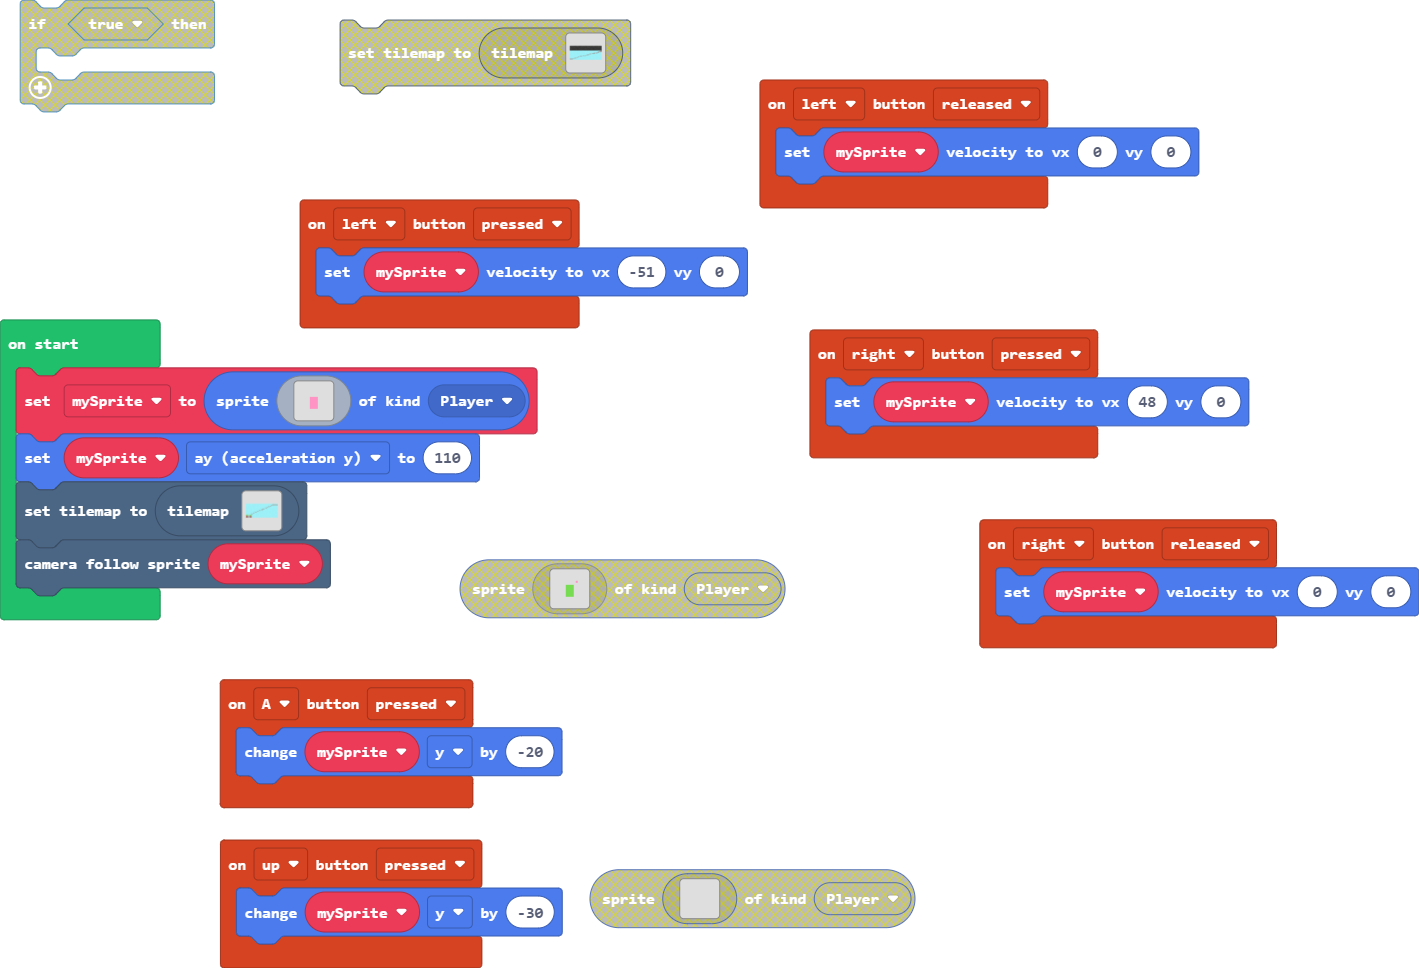
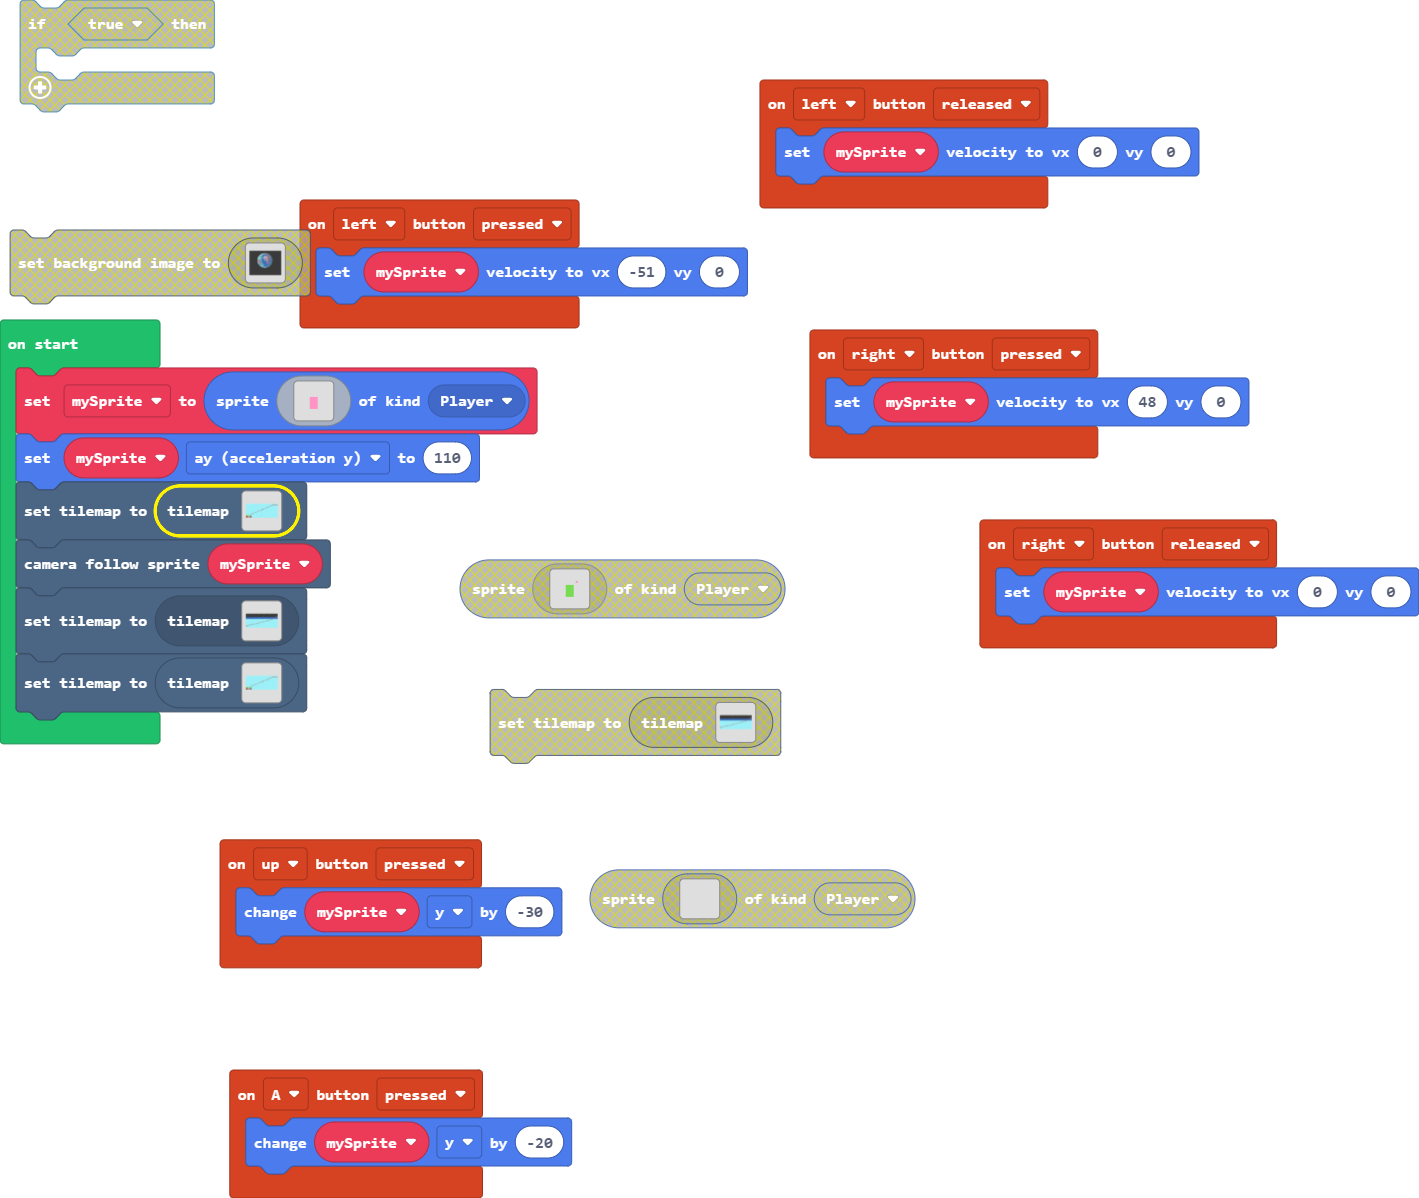
Update main.blocks, main.ts, tilemap.g.jres, tilemap.g.ts

diff --git a/tilemap.g.ts b/tilemap.g.ts
@@ -24,6 +24,14 @@ namespace myTiles {
     export const tile9 = image.ofBuffer(hex``);
     //% fixedInstance jres blockIdentity=images._tile
     export const tile11 = image.ofBuffer(hex``);
+    //% fixedInstance jres blockIdentity=images._tile
+    export const tile13 = image.ofBuffer(hex``);
+    //% fixedInstance jres blockIdentity=images._tile
+    export const tile14 = image.ofBuffer(hex``);
+    //% fixedInstance jres blockIdentity=images._tile
+    export const tile12 = image.ofBuffer(hex``);
+    //% fixedInstance jres blockIdentity=images._tile
+    export const tile15 = image.ofBuffer(hex``);
 
     helpers._registerFactory("tilemap", function(name: string) {
         switch(helpers.stringTrim(name)) {
@@ -155,8 +163,46 @@ namespace myTiles {
 . . . . . . . . . . . . . . . . 
 . . . . . . . . . . . . . . . . 
 `, [myTiles.transparency16], TileScale.Sixteen);
+            case "level8":
+            case "level8":return tiles.createTilemap(hex`1000100000000000000000000000000000000000000000000000000000000000000000000000000000000000000000000000000000000000000000000000000000000000000000000000000000000000000000000000000000000000000000000000000000000000000000000000000000000000000000000000000000000000000000000000000000000000000000000000000000000000000000000000000000000000000000000000000000000000000000000000000000000000000000000000000000000000000000000000000000000000000000000000000000000000000000000000000000000000000000000000000000000000000000000000000000000000`, img`
+. . . . . . . . . . . . . . . . 
+. . . . . . . . . . . . . . . . 
+. . . . . . . . . . . . . . . . 
+. . . . . . . . . . . . . . . . 
+. . . . . . . . . . . . . . . . 
+. . . . . . . . . . . . . . . . 
+. . . . . . . . . . . . . . . . 
+. . . . . . . . . . . . . . . . 
+. . . . . . . . . . . . . . . . 
+. . . . . . . . . . . . . . . . 
+. . . . . . . . . . . . . . . . 
+. . . . . . . . . . . . . . . . 
+. . . . . . . . . . . . . . . . 
+. . . . . . . . . . . . . . . . 
+. . . . . . . . . . . . . . . . 
+. . . . . . . . . . . . . . . . 
+`, [myTiles.transparency16], TileScale.Sixteen);
+            case "level9":
+            case "level9":return tiles.createTilemap(hex`1000100000000000000000000000000000000000000000000000000000000000000000000000000000000000000000000000000000000000000000000000000000000000000000000000000000000000000000000000000000000000000000000000000000000000000000000000000000000000000000000000000000000000000000000000000000000000000000000000000000000000000000000000000000000000000000000000000000000000000000000000000000000000000000000000000000000000000000000000000000000000000000000000000000000000000000000000000000000000000000000000000000000000000000000000000000000000`, img`
+. . . . . . . . . . . . . . . . 
+. . . . . . . . . . . . . . . . 
+. . . . . . . . . . . . . . . . 
+. . . . . . . . . . . . . . . . 
+. . . . . . . . . . . . . . . . 
+. . . . . . . . . . . . . . . . 
+. . . . . . . . . . . . . . . . 
+. . . . . . . . . . . . . . . . 
+. . . . . . . . . . . . . . . . 
+. . . . . . . . . . . . . . . . 
+. . . . . . . . . . . . . . . . 
+. . . . . . . . . . . . . . . . 
+. . . . . . . . . . . . . . . . 
+. . . . . . . . . . . . . . . . 
+. . . . . . . . . . . . . . . . 
+. . . . . . . . . . . . . . . . 
+`, [myTiles.transparency16], TileScale.Sixteen);
             case "level0":
[2 lines of base64/hex data omitted]
 ......................................................................
 ......................................................................
 ......................................................................
@@ -187,7 +233,7 @@ namespace myTiles {
 ......................................................................
 ......................................................................
 ......................................................................
-`, [myTiles.transparency16,myTiles.tile1,myTiles.tile4,myTiles.tile2,myTiles.tile9,myTiles.tile11], TileScale.Sixteen);
+`, [myTiles.transparency16,myTiles.tile1,myTiles.tile2,myTiles.tile4,myTiles.tile9,myTiles.tile15], TileScale.Sixteen);
         }
         return null;
     })
@@ -217,6 +263,14 @@ namespace myTiles {
             case "tile9":return tile9;
             case "lvl7":
             case "tile11":return tile11;
+            case "myTile10":
+            case "tile13":return tile13;
+            case "myTile11":
+            case "tile14":return tile14;
+            case "myTile9":
+            case "tile12":return tile12;
+            case "myTile12":
+            case "tile15":return tile15;
         }
         return null;
     })

diff --git a/main.ts b/main.ts
@@ -38,3 +38,5 @@ mySprite = sprites.create(img`
 mySprite.ay = 110
 tiles.setCurrentTilemap(tilemap`level2`)
 scene.cameraFollowSprite(mySprite)
+tiles.setCurrentTilemap(tilemap`level0`)
+tiles.setCurrentTilemap(tilemap`level2`)
